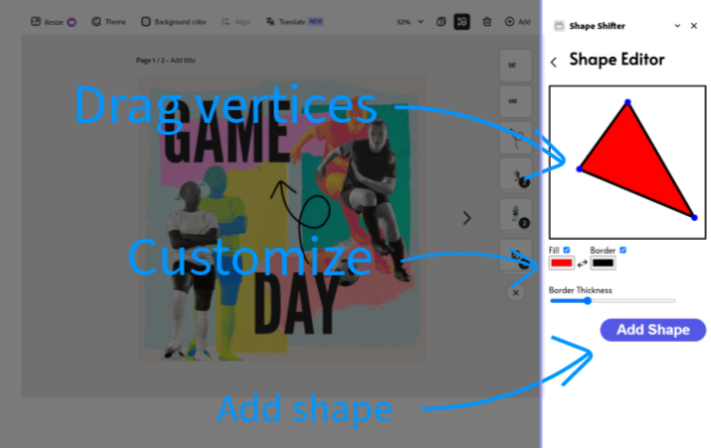
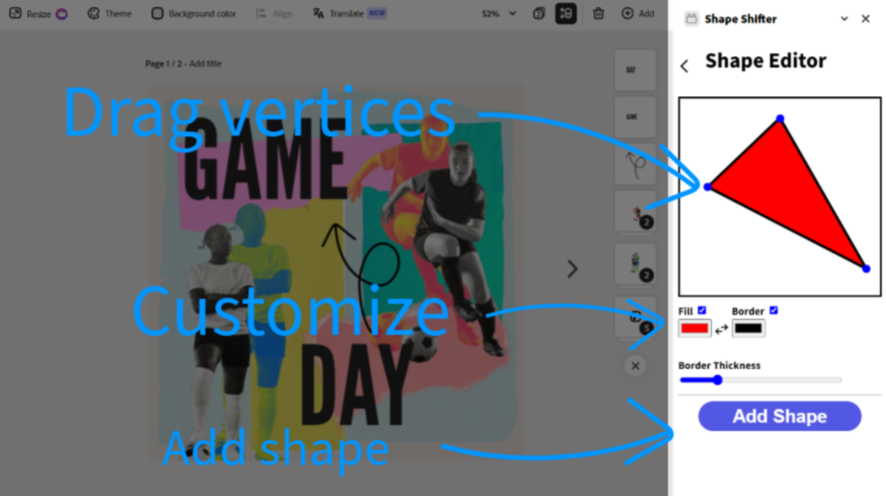
Resubmit

diff --git a/main/src/index.html b/main/src/index.html
@@ -10,6 +10,7 @@
         <meta name="viewport" content="width=device-width, initial-scale=1.0" />
 
         <link href='https://fonts.googleapis.com/css?family=Alata' rel='stylesheet'>
+        <link rel="stylesheet" href="https://use.typekit.net/mwe2adp.css">
         <link rel="stylesheet" href="https://fonts.googleapis.com/css2?family=Material+Symbols+Outlined:opsz,wght,FILL,GRAD@20..48,100..700,0..1,-50..200" />
         <link rel="stylesheet" href="https://fonts.googleapis.com/css2?family=Material+Symbols+Outlined:opsz,wght,FILL,GRAD@20..48,100..700,0..1,-50..200" />
 
@@ -58,8 +59,10 @@
                 <label for="weight">Border Thickness</label>
                 <input id="weight" type="range" value="2" min="1" max="15" step="1" class="range">
                 <br>
-                <br>
-                <button class="button" id="addShape">Add Shape</button>
+                <hr>
+                <div id="submit">
+                    <button class="button" id="addShape">Add Shape</button>
+                </div>
             </div>
         </div>
         <p id="output"></p>

diff --git a/main/src/style/controls.css b/main/src/style/controls.css
@@ -5,10 +5,20 @@
     border-style: solid;
     color: rgb(255, 255, 255);
     font-family: sans-serif;
-    float: right;
     font-weight: 700;
     font-size: 27px;
     padding: 5px 30px 5px 30px;
+    width: 80%;
+    margin-left: auto;
+    margin-right: auto;
+    align-self: center;
+    text-align: center;
+}
+input[type="checkbox"] {
+    accent-color: blue;
+}
+input[type="range"] {
+    accent-color: blue;
 }
 
 .button:disabled {
@@ -19,6 +29,9 @@
 .button:not([disabled]):hover {
     background-color: rgb(64, 70, 202);
     cursor: pointer;
+}
+#submit {
+    text-align: center;
 }
 
 #colorPicker {

diff --git a/main/src/style/style.css b/main/src/style/style.css
@@ -1,5 +1,5 @@
 * {
-    font-family: 'Alata';
+    font-family: "source-sans-pro", sans-serif;
     user-select: none;
     box-sizing: border-box;
 }
